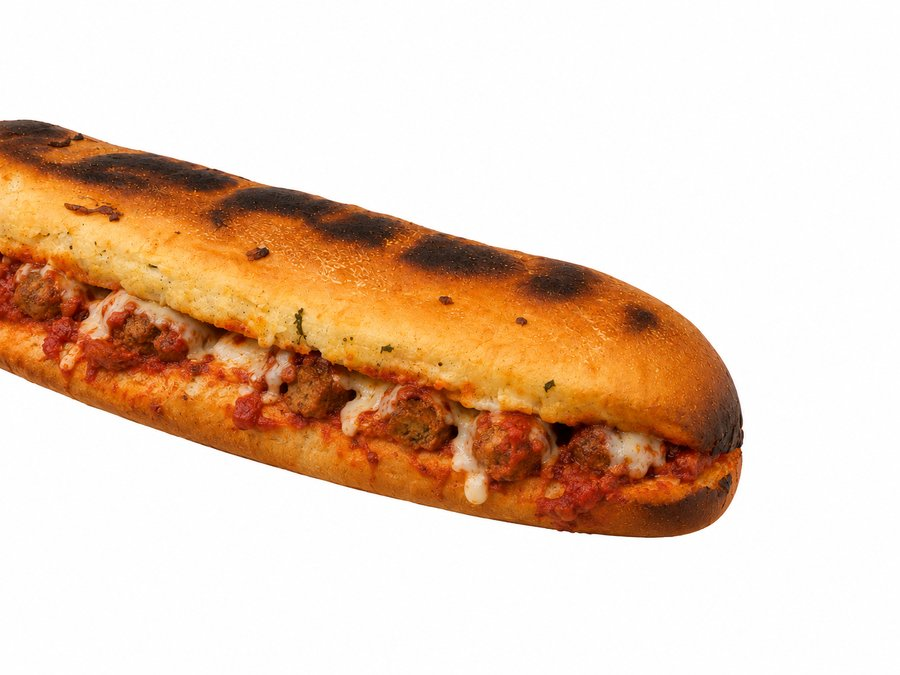
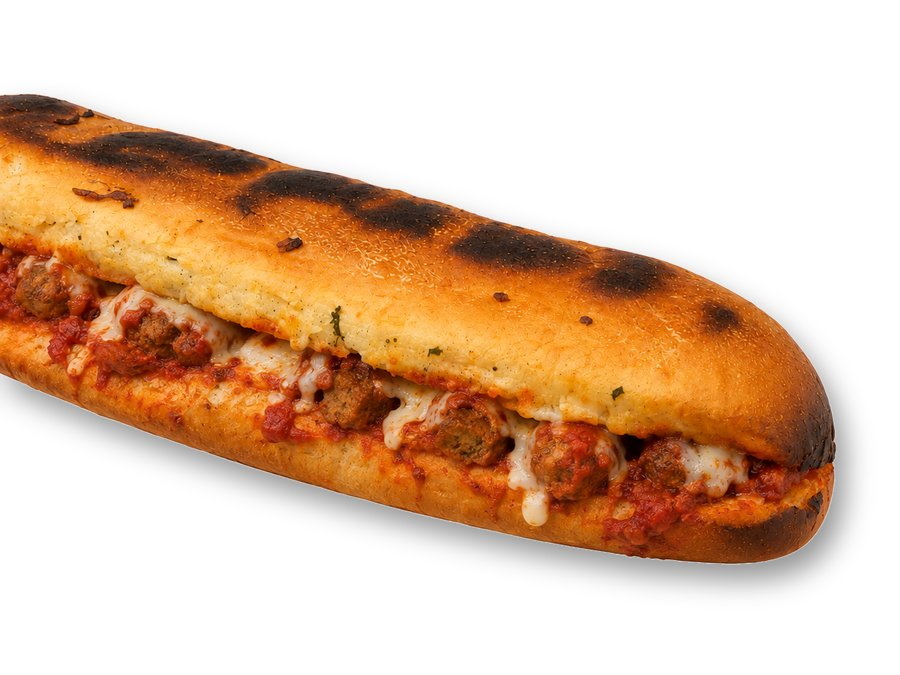
Special menu photos: soft shadows, wider unopened panzerotti
Claude-Session: https://claude.ai/code/session_01GwuNKQ4EhJTqGbbawQ6M8A

diff --git a/scripts/special-images.py b/scripts/special-images.py
@@ -1,0 +1,62 @@
+# Run from the project folder:  python3 scripts/special-images.py
+# (needs Pillow, numpy and scipy). Makes the Special Menu card photos
+# (public/images/special-menu/*.jpg, 900x675) from the originals in
+# source-photos/special-menu: each item is cut out of its white background
+# and put back on white with a soft shadow underneath, like the sides.
+# The panzerotti's left (unopened) piece is widened a little.
+import numpy as np
+from PIL import Image, ImageFilter
+from scipy import ndimage
+SRC = "source-photos/special-menu"; OUT = "public/images/special-menu"
+W, H = 900, 675
+
+PANZ_PIVOT = 440     # px in the original: everything left of this gets wider
+PANZ_STRETCH = 1.3   # how much wider (1.3 = 30%); the far left may go off frame
+PANZ_EASE = 80       # px over which the stretch fades in (no visible crease)
+
+def cut_white(im):
+    a = np.asarray(im.convert("RGB")).astype(int)
+    bg_like = (a.min(axis=2) > 236) & (a.max(axis=2) - a.min(axis=2) < 18)
+    lab, _ = ndimage.label(bg_like)
+    edge = set(np.unique(np.concatenate([lab[0], lab[-1], lab[:, 0], lab[:, -1]]))) - {0}
+    fg = ndimage.binary_fill_holes(~np.isin(lab, list(edge)))
+    out = im.convert("RGBA")
+    out.putalpha(Image.fromarray((fg * 255).astype(np.uint8)).filter(ImageFilter.GaussianBlur(0.8)))
+    return out
+
+def widen_left(im):
+    # each output column left of the pivot reads from a column closer to it,
+    # so the left part comes out wider; columns past the pivot are unchanged
+    a = np.asarray(im)
+    w = a.shape[1]
+    x = np.arange(w, dtype=float)
+    d = np.clip(PANZ_PIVOT - x, 0, None)
+    s = PANZ_STRETCH
+    src_d = d / s + (1 - 1 / s) * PANZ_EASE * (1 - np.exp(-d / PANZ_EASE))
+    src_x = np.where(x < PANZ_PIVOT, PANZ_PIVOT - src_d, x)
+    x0 = np.floor(src_x).astype(int).clip(0, w - 1); x1 = (x0 + 1).clip(0, w - 1)
+    t = (src_x - np.floor(src_x))[None, :, None]
+    out = a[:, x0].astype(float) * (1 - t) + a[:, x1].astype(float) * t
+    return Image.fromarray(out.round().astype(np.uint8), "RGBA")
+
+def card(cut, name, fill=0.86, keep_left_edge=False):
+    bbox = cut.getchannel("A").point(lambda v: 255 if v > 12 else 0).getbbox()
+    if keep_left_edge:  # item already runs off the left side: keep it touching the frame
+        bbox = (0, bbox[1], bbox[2], bbox[3])
+    cut = cut.crop(bbox)
+    k = min(W * fill / cut.width, H * fill / cut.height)
+    if keep_left_edge:
+        k = min((W * (fill + 1) / 2) / cut.width, H * fill / cut.height)
+    im = cut.resize((round(cut.width * k), round(cut.height * k)), Image.LANCZOS)
+    x = 0 if keep_left_edge else (W - im.width) // 2
+    y = (H - im.height) // 2 - 8
+    c = Image.new("RGBA", (W, H), (255, 255, 255, 255))
+    blk = Image.new("RGBA", im.size, (0, 0, 0, 255)); blk.putalpha(im.getchannel("A").point(lambda v: int(v * 0.42)))
+    sh = Image.new("RGBA", c.size, (0, 0, 0, 0)); sh.alpha_composite(blk, (x + 10, y + 16))
+    c.alpha_composite(sh.filter(ImageFilter.GaussianBlur(13))); c.alpha_composite(im, (x, y))
+    c.convert("RGB").save(f"{OUT}/{name}.jpg", "JPEG", quality=85, optimize=True, progressive=True)
+    print("saved", name, im.size)
+
+card(widen_left(cut_white(Image.open(f"{SRC}/panzerotti.png"))), "panzerotti", keep_left_edge=True)
+card(cut_white(Image.open(f"{SRC}/pizza-sub.png")), "pizza-sub", fill=0.86, keep_left_edge=True)  # the subs run off the left side in the photos
+card(cut_white(Image.open(f"{SRC}/meatball-sub.png")), "meatball-sub", fill=0.86, keep_left_edge=True)
